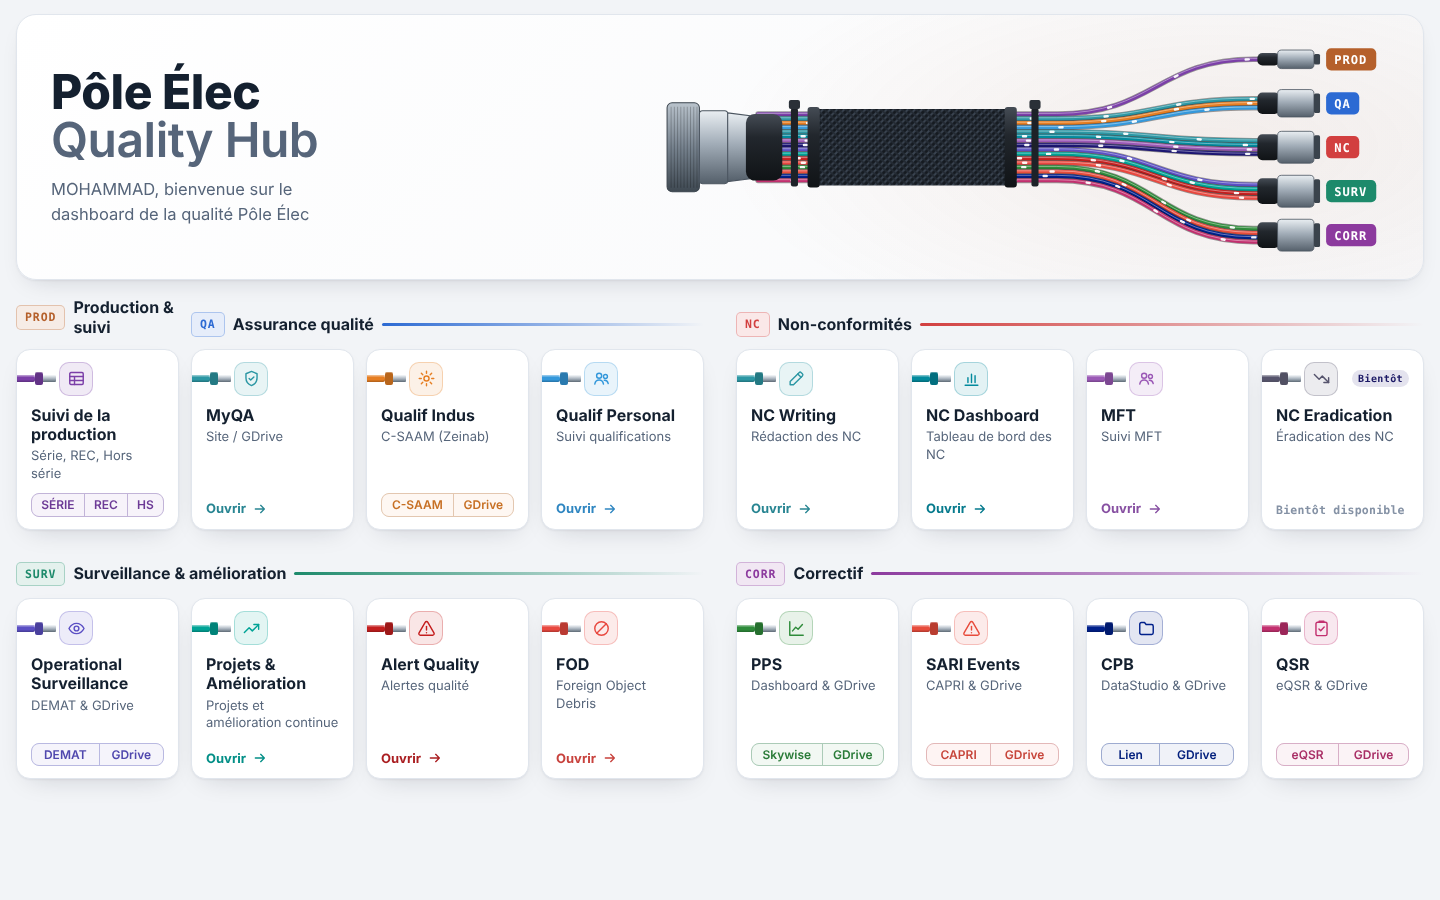
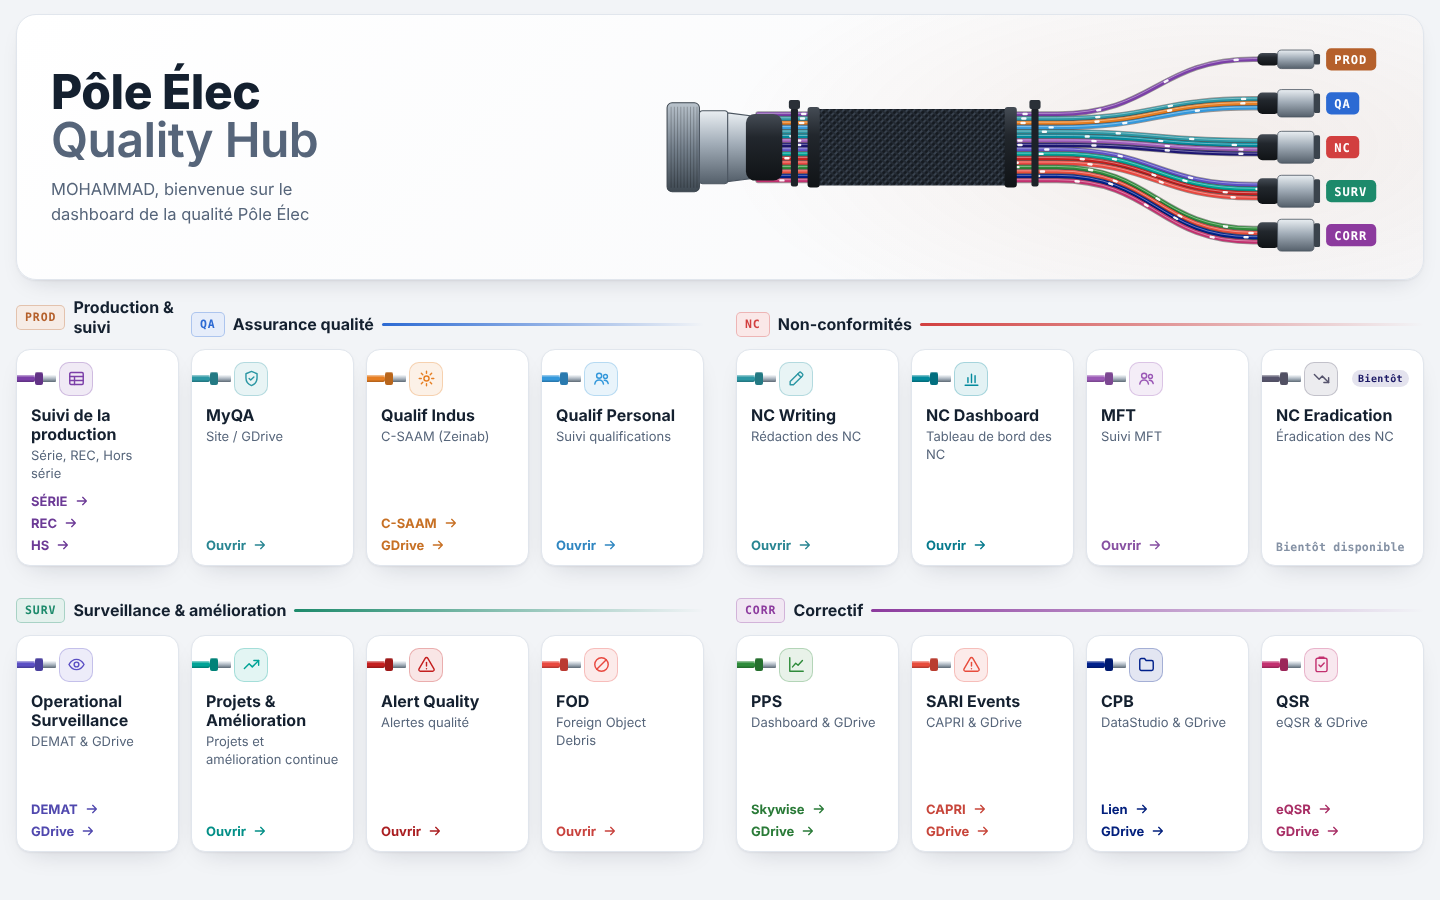
Hub: several links in the same arrow style as "Ouvrir"
Tools with several links now show one arrow link per line ("SÉRIE →",
"REC →", "HS →"), same font, colour and hover as "Ouvrir →", instead of
a boxed button bar, so every card footer looks alike. Still two rows,
one 1440 x 900 screen. Slate parts, previews and README updated.

Claude-Session: https://claude.ai/code/session_017pLD4XkEhj6BKkNzrEKz3H

diff --git a/09_pole_elec_hub/hub/pole_elec_hub.html b/09_pole_elec_hub/hub/pole_elec_hub.html
@@ -60,15 +60,13 @@ h1 span{display:block;color:var(--muted);font-weight:600}
 .stretch::after{content:"";position:absolute;inset:0;z-index:1;border-radius:14px}
 .guide{position:relative;z-index:2;margin-left:auto;font:600 12.5px/1 "Segoe UI",system-ui,sans-serif;color:var(--muted);text-decoration:none;border:1px solid var(--line-2);border-radius:20px;padding:5px 9px 4px}
 .guide:hover,.guide:focus-visible{color:var(--text);border-color:var(--muted);outline:none}
-/* several links: one segmented control across the card, in its colour, one segment per link (the 1 px gaps
-   show the frame colour as dividers, also when the segments wrap). The card itself is not a link,
-   so it does not lift on hover. */
-.seg{position:relative;z-index:2;flex:1;display:flex;flex-wrap:wrap;gap:1px;border-radius:8px;overflow:hidden;
-  background:color-mix(in srgb,var(--w) 30%,var(--line));border:1px solid color-mix(in srgb,var(--w) 30%,var(--line))}
-.seg a{flex:1 1 auto;text-align:center;padding:5px 10px 4px;font:600 12.5px/1.2 "Segoe UI",system-ui,sans-serif;white-space:nowrap;text-decoration:none;
-  color:color-mix(in srgb,var(--w) 85%,var(--text));background:color-mix(in srgb,var(--w) 6%,var(--surface));transition:background-color .15s,color .15s}
-.seg a:hover{background:color-mix(in srgb,var(--w) 16%,var(--surface));color:var(--text)}
-.seg a:focus-visible{outline:2px solid var(--w);outline-offset:-2px}
+/* several links: one arrow link per line, in the same style as "Ouvrir". The card itself is not a link,
+   so it does not lift on hover; each link moves its own arrow. */
+.go-list{position:relative;z-index:2;display:flex;flex-direction:column;align-items:flex-start;gap:7px}
+.go{text-decoration:none;outline:none}
+.go:focus-visible{border-radius:3px;box-shadow:0 0 0 2px color-mix(in srgb,var(--w) 45%,transparent)}
+.card.multi:hover .open svg,.card.multi:focus-within .open svg{transform:none}
+.card.multi .go:hover svg,.card.multi .go:focus-visible svg{transform:translateX(4px)}
 .card.multi:hover,.card.multi:focus-within{transform:none}
 .soon-b{margin-left:auto;font:600 11px/1 Consolas,"Cascadia Mono",monospace;letter-spacing:.04em;padding:5px 8px 4px;border-radius:20px;background:color-mix(in srgb,var(--w) 12%,var(--surface));color:color-mix(in srgb,var(--w) 80%,var(--text))}
 .card.soon .ib,.card.soon .wire,.card.soon .collar{filter:saturate(.35);opacity:.75}
@@ -105,7 +103,7 @@ h1 span{display:block;color:var(--muted);font-weight:600}
 .dense .soon-b{font-size:10px;padding:4px 6px 3px}
 .dense .card h3{margin-top:7px;font-size:16px}
 .dense .card p{font-size:13px;line-height:1.35}
-.dense .seg a{padding:4px 8px 3px;font-size:12px}
+.dense .go-list{gap:6px}
 .dense .guide{font-size:12px;padding:4px 7px 3px}
 .dense .open{font-size:13px}
 .dense .nolink .open,.dense .soon .open{font-size:11.5px}
@@ -319,12 +317,12 @@ if(!C||!Array.isArray(C.groups)){
         const multi=Array.isArray(t.links), list=multi?t.links.filter(l=>l&&!todo(l.url)):[];
         const state=t.soon?"soon":(multi?list.length:!todo(t.link))?"link":"nolink";
         const cls=" "+state+(noName(t.name)?" noname":"")+(multi?" multi":"");
-        const a=(u,label,c)=>'<a'+(c?' class="'+c+'"':'')+' href="'+esc(u)+'" target="_blank" rel="noopener">'+esc(label)+'</a>';
+        const a=(u,label,c)=>'<a class="'+c+'" href="'+esc(u)+'" target="_blank" rel="noopener">'+esc(label)+'</a>';
         const guide=t.guide&&!todo(t.guide)?a(t.guide,"Guide utilisateur","guide"):'';
         const name=state==="link"&&!multi?a(t.link,t.name,"stretch"):esc(t.name);
         const foot=state==="soon"?'<span class="open">Bientôt disponible</span>'
                   :state==="nolink"?'<span class="open">Lien à compléter</span>'
-                  :multi?'<span class="seg">'+list.map(l=>a(l.url,l.name,"")).join("")+'</span>'+guide
+                  :multi?'<span class="go-list">'+list.map(l=>'<a class="open go" href="'+esc(l.url)+'" target="_blank" rel="noopener">'+esc(l.name)+' '+svgI("arrow")+'</a>').join("")+'</span>'+guide
                   :'<span class="open">Ouvrir '+svgI("arrow")+'</span>'+guide;
         const inner='<span class="c-top"><i class="wire"></i><i class="collar"></i><i class="ferr"></i><span class="ib">'+svgI(t.icon)+'</span>'
           +(state==="soon"?'<span class="soon-b">Bientôt</span>':'')+'</span>'

diff --git a/09_pole_elec_hub/slate/hub.css b/09_pole_elec_hub/slate/hub.css
@@ -53,15 +53,13 @@ h1 span{display:block;color:var(--muted);font-weight:600}
 .stretch::after{content:"";position:absolute;inset:0;z-index:1;border-radius:14px}
 .guide{position:relative;z-index:2;margin-left:auto;font:600 12.5px/1 "Segoe UI",system-ui,sans-serif;color:var(--muted);text-decoration:none;border:1px solid var(--line-2);border-radius:20px;padding:5px 9px 4px}
 .guide:hover,.guide:focus-visible{color:var(--text);border-color:var(--muted);outline:none}
-/* several links: one segmented control across the card, in its colour, one segment per link (the 1 px gaps
-   show the frame colour as dividers, also when the segments wrap). The card itself is not a link,
-   so it does not lift on hover. */
-.seg{position:relative;z-index:2;flex:1;display:flex;flex-wrap:wrap;gap:1px;border-radius:8px;overflow:hidden;
-  background:color-mix(in srgb,var(--w) 30%,var(--line));border:1px solid color-mix(in srgb,var(--w) 30%,var(--line))}
-.seg a{flex:1 1 auto;text-align:center;padding:5px 10px 4px;font:600 12.5px/1.2 "Segoe UI",system-ui,sans-serif;white-space:nowrap;text-decoration:none;
-  color:color-mix(in srgb,var(--w) 85%,var(--text));background:color-mix(in srgb,var(--w) 6%,var(--surface));transition:background-color .15s,color .15s}
-.seg a:hover{background:color-mix(in srgb,var(--w) 16%,var(--surface));color:var(--text)}
-.seg a:focus-visible{outline:2px solid var(--w);outline-offset:-2px}
+/* several links: one arrow link per line, in the same style as "Ouvrir". The card itself is not a link,
+   so it does not lift on hover; each link moves its own arrow. */
+.go-list{position:relative;z-index:2;display:flex;flex-direction:column;align-items:flex-start;gap:7px}
+.go{text-decoration:none;outline:none}
+.go:focus-visible{border-radius:3px;box-shadow:0 0 0 2px color-mix(in srgb,var(--w) 45%,transparent)}
+.card.multi:hover .open svg,.card.multi:focus-within .open svg{transform:none}
+.card.multi .go:hover svg,.card.multi .go:focus-visible svg{transform:translateX(4px)}
 .card.multi:hover,.card.multi:focus-within{transform:none}
 .soon-b{margin-left:auto;font:600 11px/1 Consolas,"Cascadia Mono",monospace;letter-spacing:.04em;padding:5px 8px 4px;border-radius:20px;background:color-mix(in srgb,var(--w) 12%,var(--surface));color:color-mix(in srgb,var(--w) 80%,var(--text))}
 .card.soon .ib,.card.soon .wire,.card.soon .collar{filter:saturate(.35);opacity:.75}
@@ -98,7 +96,7 @@ h1 span{display:block;color:var(--muted);font-weight:600}
 .dense .soon-b{font-size:10px;padding:4px 6px 3px}
 .dense .card h3{margin-top:7px;font-size:16px}
 .dense .card p{font-size:13px;line-height:1.35}
-.dense .seg a{padding:4px 8px 3px;font-size:12px}
+.dense .go-list{gap:6px}
 .dense .guide{font-size:12px;padding:4px 7px 3px}
 .dense .open{font-size:13px}
 .dense .nolink .open,.dense .soon .open{font-size:11.5px}

diff --git a/09_pole_elec_hub/slate/hub.js b/09_pole_elec_hub/slate/hub.js
@@ -171,12 +171,12 @@ if(!C||!Array.isArray(C.groups)){
         const multi=Array.isArray(t.links), list=multi?t.links.filter(l=>l&&!todo(l.url)):[];
         const state=t.soon?"soon":(multi?list.length:!todo(t.link))?"link":"nolink";
         const cls=" "+state+(noName(t.name)?" noname":"")+(multi?" multi":"");
-        const a=(u,label,c)=>'<a'+(c?' class="'+c+'"':'')+' href="'+esc(u)+'" target="_blank" rel="noopener">'+esc(label)+'</a>';
+        const a=(u,label,c)=>'<a class="'+c+'" href="'+esc(u)+'" target="_blank" rel="noopener">'+esc(label)+'</a>';
         const guide=t.guide&&!todo(t.guide)?a(t.guide,"Guide utilisateur","guide"):'';
         const name=state==="link"&&!multi?a(t.link,t.name,"stretch"):esc(t.name);
         const foot=state==="soon"?'<span class="open">Bientôt disponible</span>'
                   :state==="nolink"?'<span class="open">Lien à compléter</span>'
-                  :multi?'<span class="seg">'+list.map(l=>a(l.url,l.name,"")).join("")+'</span>'+guide
+                  :multi?'<span class="go-list">'+list.map(l=>'<a class="open go" href="'+esc(l.url)+'" target="_blank" rel="noopener">'+esc(l.name)+' '+svgI("arrow")+'</a>').join("")+'</span>'+guide
                   :'<span class="open">Ouvrir '+svgI("arrow")+'</span>'+guide;
         const inner='<span class="c-top"><i class="wire"></i><i class="collar"></i><i class="ferr"></i><span class="ib">'+svgI(t.icon)+'</span>'
           +(state==="soon"?'<span class="soon-b">Bientôt</span>':'')+'</span>'

diff --git a/09_pole_elec_hub/README.md b/09_pole_elec_hub/README.md
@@ -20,7 +20,7 @@ Content: Mohammad's own list of 21 Oct (links, groups and the tools with several
 - **Surveillance & amélioration:** Operational Surveillance (DEMAT, GDrive), Projets & Amélioration, Alert Quality, FOD.
 - **Correctif:** PPS (Skywise, GDrive), SARI Events (CAPRI, GDrive), CPB (Lien, GDrive), QSR (eQSR, GDrive).
 
-A tool with `links` shows, instead of "Ouvrir", one bar of buttons across the bottom of its card, in the card's colour, one segment per link; only the buttons are clickable, so that card does not lift on hover. A tool with a single `link` opens from anywhere on its card.
+A tool with `links` shows, instead of "Ouvrir →", one arrow link per line in the same style ("SÉRIE →", "REC →", "HS →"); only those links are clickable, so that card does not lift on hover and each link slides its own arrow. A tool with a single `link` opens from anywhere on its card.
 
 On a wide screen the page has eight cards per row, all the same size, and groups share a row while they fit: Production & suivi, Assurance qualité and Non-conformités (1 + 3 + 4) on the first row, Surveillance & amélioration and Correctif (4 + 4) on the second. Both rows split after the fourth card, so the page gets a wider gap there and reads as a left half and a right half. Everything is visible at once on a 1440 × 900 screen. Between 1000 and 1240 px wide there are four cards per row; below 1000 px the groups go one per row with two cards per row, and on a phone the cards stack.
 
